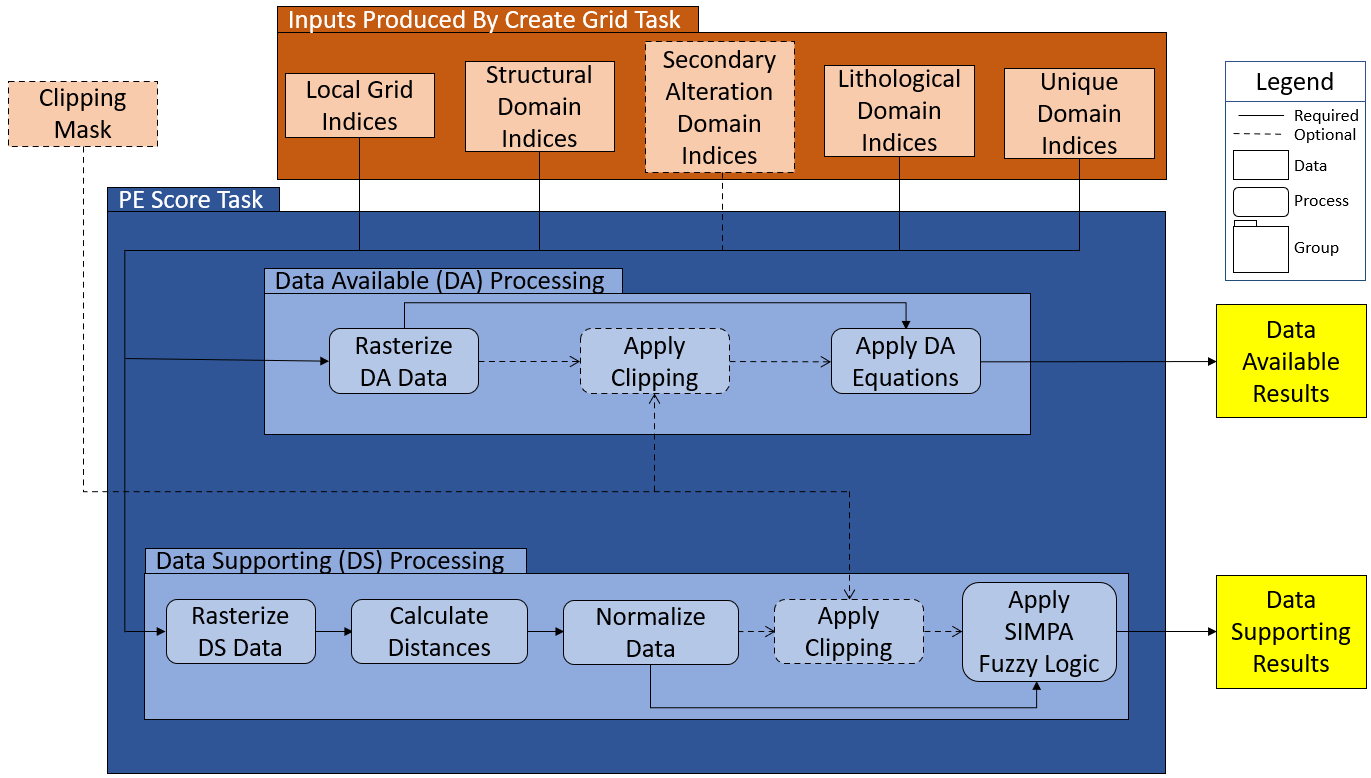
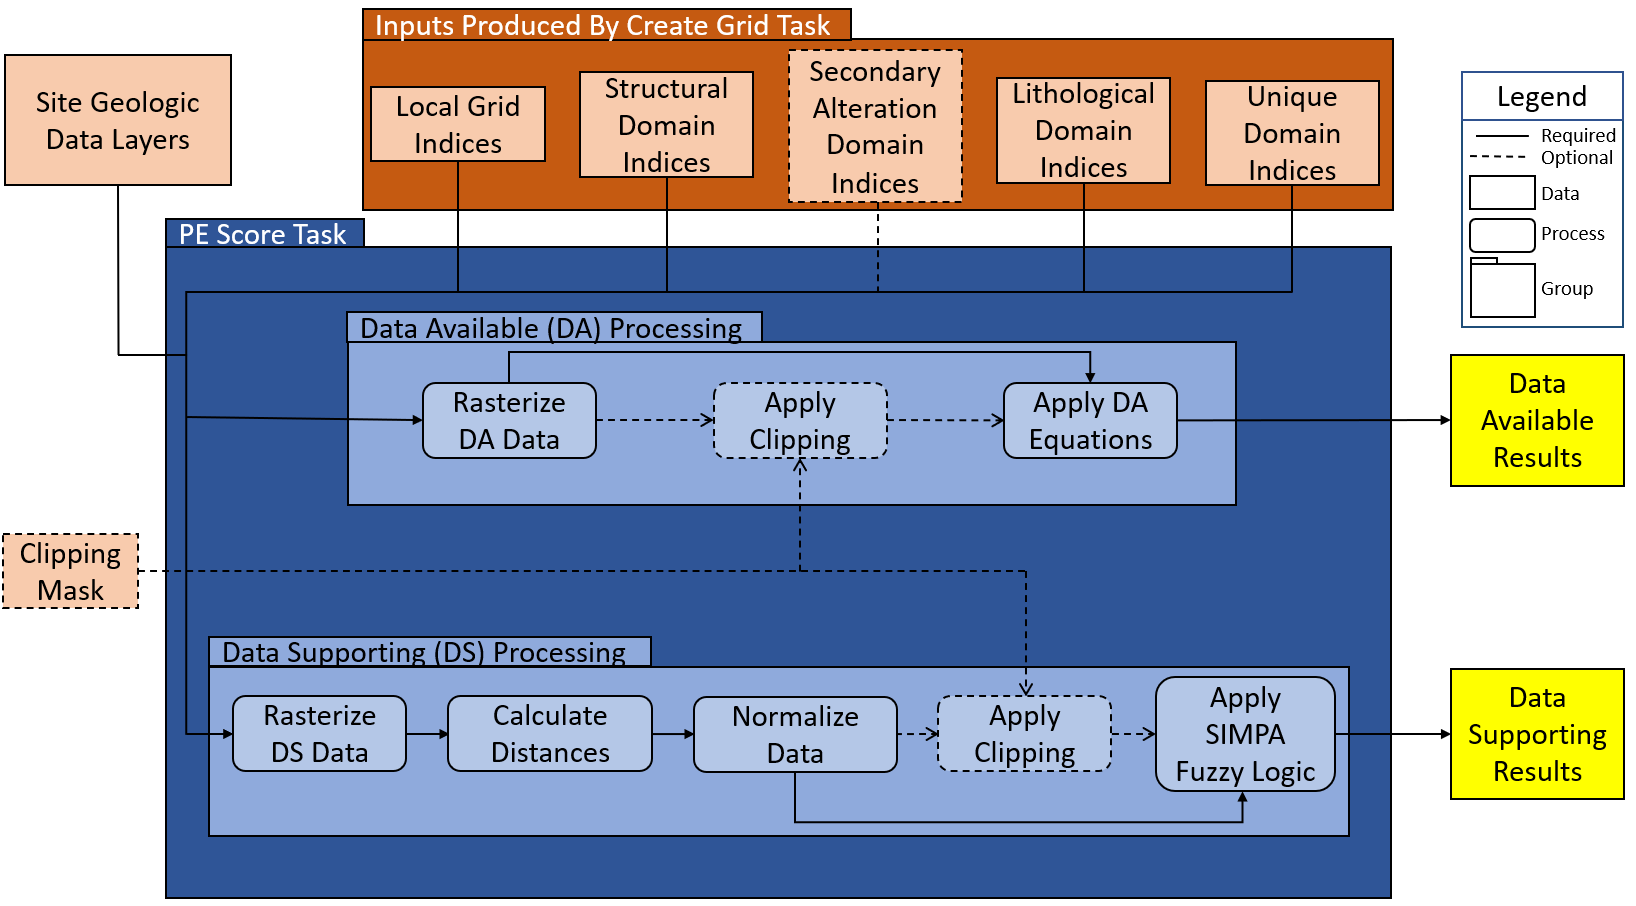
first stab at reviewer comments

diff --git a/paper.md b/paper.md
@@ -44,17 +44,16 @@ bibliography: paper.bib
 # Summary
 
 [U]{.underline}nconventional [R]{.underline}are-earth elements & [C]{.underline}ritical minerals (URC) [@osti_1891489] 
-are crucial to a growing number of industries worldwide [@BALARAM20191285]. Critical Minerals (CM) are minerals used in
-manufacturing which are essential to economic and national security while being vulnerable to supply disruption through 
-any number of external factors [@osti_1891489]. _Unconventional_ CM resources contrast with conventional CM resources 
-in that they are sourced from geologic or byproduct hosts distinctly separate from the mechanisms which establish 
-conventional CM deposits; such unconventional sources include _in situ_ geologic deposits and byproducts of industrial 
-extraction [@osti_1891489].
+are crucial to a growing number of industries worldwide [@BALARAM20191285]. Due to their use in manufacturing, Critical
+Minerals (CM) are essential to economic and national security, yet have supply chains vulnerable to external 
+disruptions[@osti_1891489]. _Unconventional_ CM are sourced from geologic or byproduct hosts distinctly separate from 
+the mechanisms which establish conventional CM deposits [@osti_1891489]. Unconventional sources for CM include 
+_in situ_ geologic deposits and byproducts of industrial extraction [@osti_1891489].
  
 The extraction and recovery of conventional CM is a complex process traditionally involving strip mining, which is both 
-expensive and environmentally destructive [@BALARAM20191285]. Recent research has revealed that coralliferous
+expensive and environmentally destructive [@BALARAM20191285]. Recent research has revealed that coaliferous sediments
 may act as unconventional CM sources containing Rare-Earth Elements (REE) in significant concentrations 
-[@SEREDIN201267]; determining the likelihood and location of these resources in sedimentary basins, however, is both 
+[@SEREDIN201267]. Determining the likelihood and location of REE resources in sedimentary basins is both 
 complex and challenging. To address this, a new method of evaluating the potential occurrence of URC resources using 
 a series of validated heuristics has been developed [@CREASON2023]. While the entire process can be carried out 
 manually using a collection of tools, a new, standalone software tool has been developed to streamline and expedite 
@@ -79,11 +78,10 @@ From this point, a Data Availability (DA) and / or a Data Supporting (DS) analys
 (\autoref{fig:pes_flow}); both analyses will operate on a vector-based spatial dataset describing the target formation,
 following the labelling scheme specified in the supplementary material in @CREASON2023. These data are rasterized 
 according to the grid specification of the aforementioned domains with each cell tagged with the appropriate set of 
-indices. In the case of a DA analysis, each pixel in the rasterized data is evaluated according to \autoref{eq:da} as 
-described by @CREASON2023, producing a DA score for each cell that is unique to each geologic resource type. For the DS 
-analysis, Spatial Implicit Multivariate Probability Assessment method [@simpa2019] is applied using a series of 
-predefined Fuzzy Logic statements, which encompass the application of equations \autoref{eq:ds}, \autoref{eq:dsm}, and
-\autoref{eq:pe}. 
+indices. In the case of a DA analysis, each pixel in the rasterized data is evaluated by applying Equation (1) as 
+described in @CREASON2023, producing a DA score for each cell that is unique to each geologic resource type. For the DS 
+analysis, the Spatial Implicit Multivariate Probability Assessment (SIMPA) method [@simpa2019] is applied using a series
+ of predefined Fuzzy Logic statements, encapsulating the logic of Equations (2), (3), and (4) in @CREASON2023.
 
 The `URC Resource Assessment Tool` can be run either using the standalone GUI, or as a command-line tool. The former 
 configuration is useful for a guided approach to executing the URC mineral-related analyses and previewing the results 
@@ -92,8 +90,30 @@ process. Regardless of how it is run, the results of the requested analyses are 
 imported into most geospatial information systems analysis tools. Optionally, when run from the GUI the results 
 of an analysis can be previewed within the tool itself (\autoref{fig:urc_out}).
 
+# Implementation Details
 
-# Support Libraries
+The `URC Resource Assessment Tool` relies on several existing open source libraries to perform its analyses. 
+[GDAL](https://www.gdal.org) is heavy utilized for managing geospatial inputs and outputs, projection transformations,
+and the conversion of vector layers into raster layers. For arithmetic operations, rasters are converted to 
+two-dimensional [NumPy](https://numpy.org/) arrays, potentially reducing run time through NumPy's CPU/SIMD 
+Optimizations [@npsimd].
+
+Data analyses pertaining to DA were carried out using [Pandas](https://pandas.pydata.org/). Raster information is 
+converted into a Pandas DataFrame object, with each column representing a layer, and each row representing a pixel 
+location. Sums are calculated according to the DA scoring algorithm outlined in @CREASON2023, with the final results 
+taken from the pandas Dataframe and converted into geospatial rasters.
+
+The fuzzy logic statements driving the DS analysis is authored using the 
+[SIMPA tool](https://edx.netl.doe.gov/dataset/simpa-tool), and then baked into the `URC Resource Assessment Tool` by 
+using the embedded urclib.fuzzylogic package to convert the logic to Python. The collection of fuzzy logic statements 
+are executed across all rasters on a per-pixel coordinate basis. This creates a Single Instruction, Multiple Data 
+(SIMD) condition which is heavily parallelized using python's `multiprocessing` module, potentially providing 
+significant improvements in temporal performance. 
+
+For more information on how the fuzzy logic library works, see @simpa2019.
+
+
+## Support Libraries
 
 In addition to several core Python libraries, The following 3rd-party libraries were used to create this tool:
 
@@ -114,34 +134,23 @@ In addition to several core Python libraries, The following 3rd-party libraries 
 
 # Figures
 
-![High level overview of the tool process when carrying out the _Create Grid_ task. \label{fig:cg_flow}]
-(fig_create_grid.png)
+![High level overview of the tool workflow when carrying out the _Create Grid_ task. Domains created using the STA 
+method [@sta2019] are rasterized using the provided Desired Width and Height values for each pixel; a projection 
+override can optionally be provided, if the results are expected to be projected differently than the input layers. 
+This task produces a series of index rasters suitable as inputs to the _Potential Enrichment (PE) Score Task_. 
+\label{fig:cg_flow}](fig_create_grid.png)
 
 
-![High level overview of the tool process when carrying out the _Potential Enrichment (PE) Score_ task. \label{fig:pes_flow}](fig_pe_score.png)
+![High level overview of the tool workflow when carrying out the _Potential Enrichment (PE) Score_ task. Inputs for 
+this task include index rasters generated from a previous execution of the _Create Grid Task_, a collection of site 
+geologic data in the form of spatial vector layers, and an optional clipping mask. This information is used to produce 
+analyses of both Data Available (DA) and Data Supporting (DS) layers provided as part of the site geologic data, 
+providing insight into the likelihood of the presence of URC resources. \label{fig:pes_flow}](fig_pe_score.png)
 
 
-![Example Result preview generated by URC Tool; the selected output shows a map colored according to PE score for 
-Meteoric Adsorption (MA).\label{fig:urc_out}](fig_pe_ma_result.png)
-
-
-# Equations
-
-\begin{equation}\label{eq:da}
-Da_m = \sum {\frac{Da_{m,c}}{D_{r_m}}}
-\end{equation}
-
-\begin{equation}\label{eq:ds}
-Ds_m = \sum {\frac{Ds_{m,c}}{D_{r_m}}}
-\end{equation}
-
-\begin{equation}\label{eq:dsm}
-\widetilde{Ds_m} = \widetilde{Ds_{m,c}} \cdot Dr^*_m
-\end{equation}
-
-\begin{equation}\label{eq:pe}
-PE_m = 1 - [(1 - Ds_m) \cdot (1 - \widetilde{Ds_m})]
-\end{equation}
+![Example Result preview generated by URC Resource Assessment Method Tool; the selected output shows a map colored 
+according to PE score for Meteoric Adsorption (MA). All spatially explicit outputs can be previewed with 
+user-configurable color scales. \label{fig:urc_out}](fig_pe_ma_result.png)
 
 
 # Acknowledgements & Disclaimer
